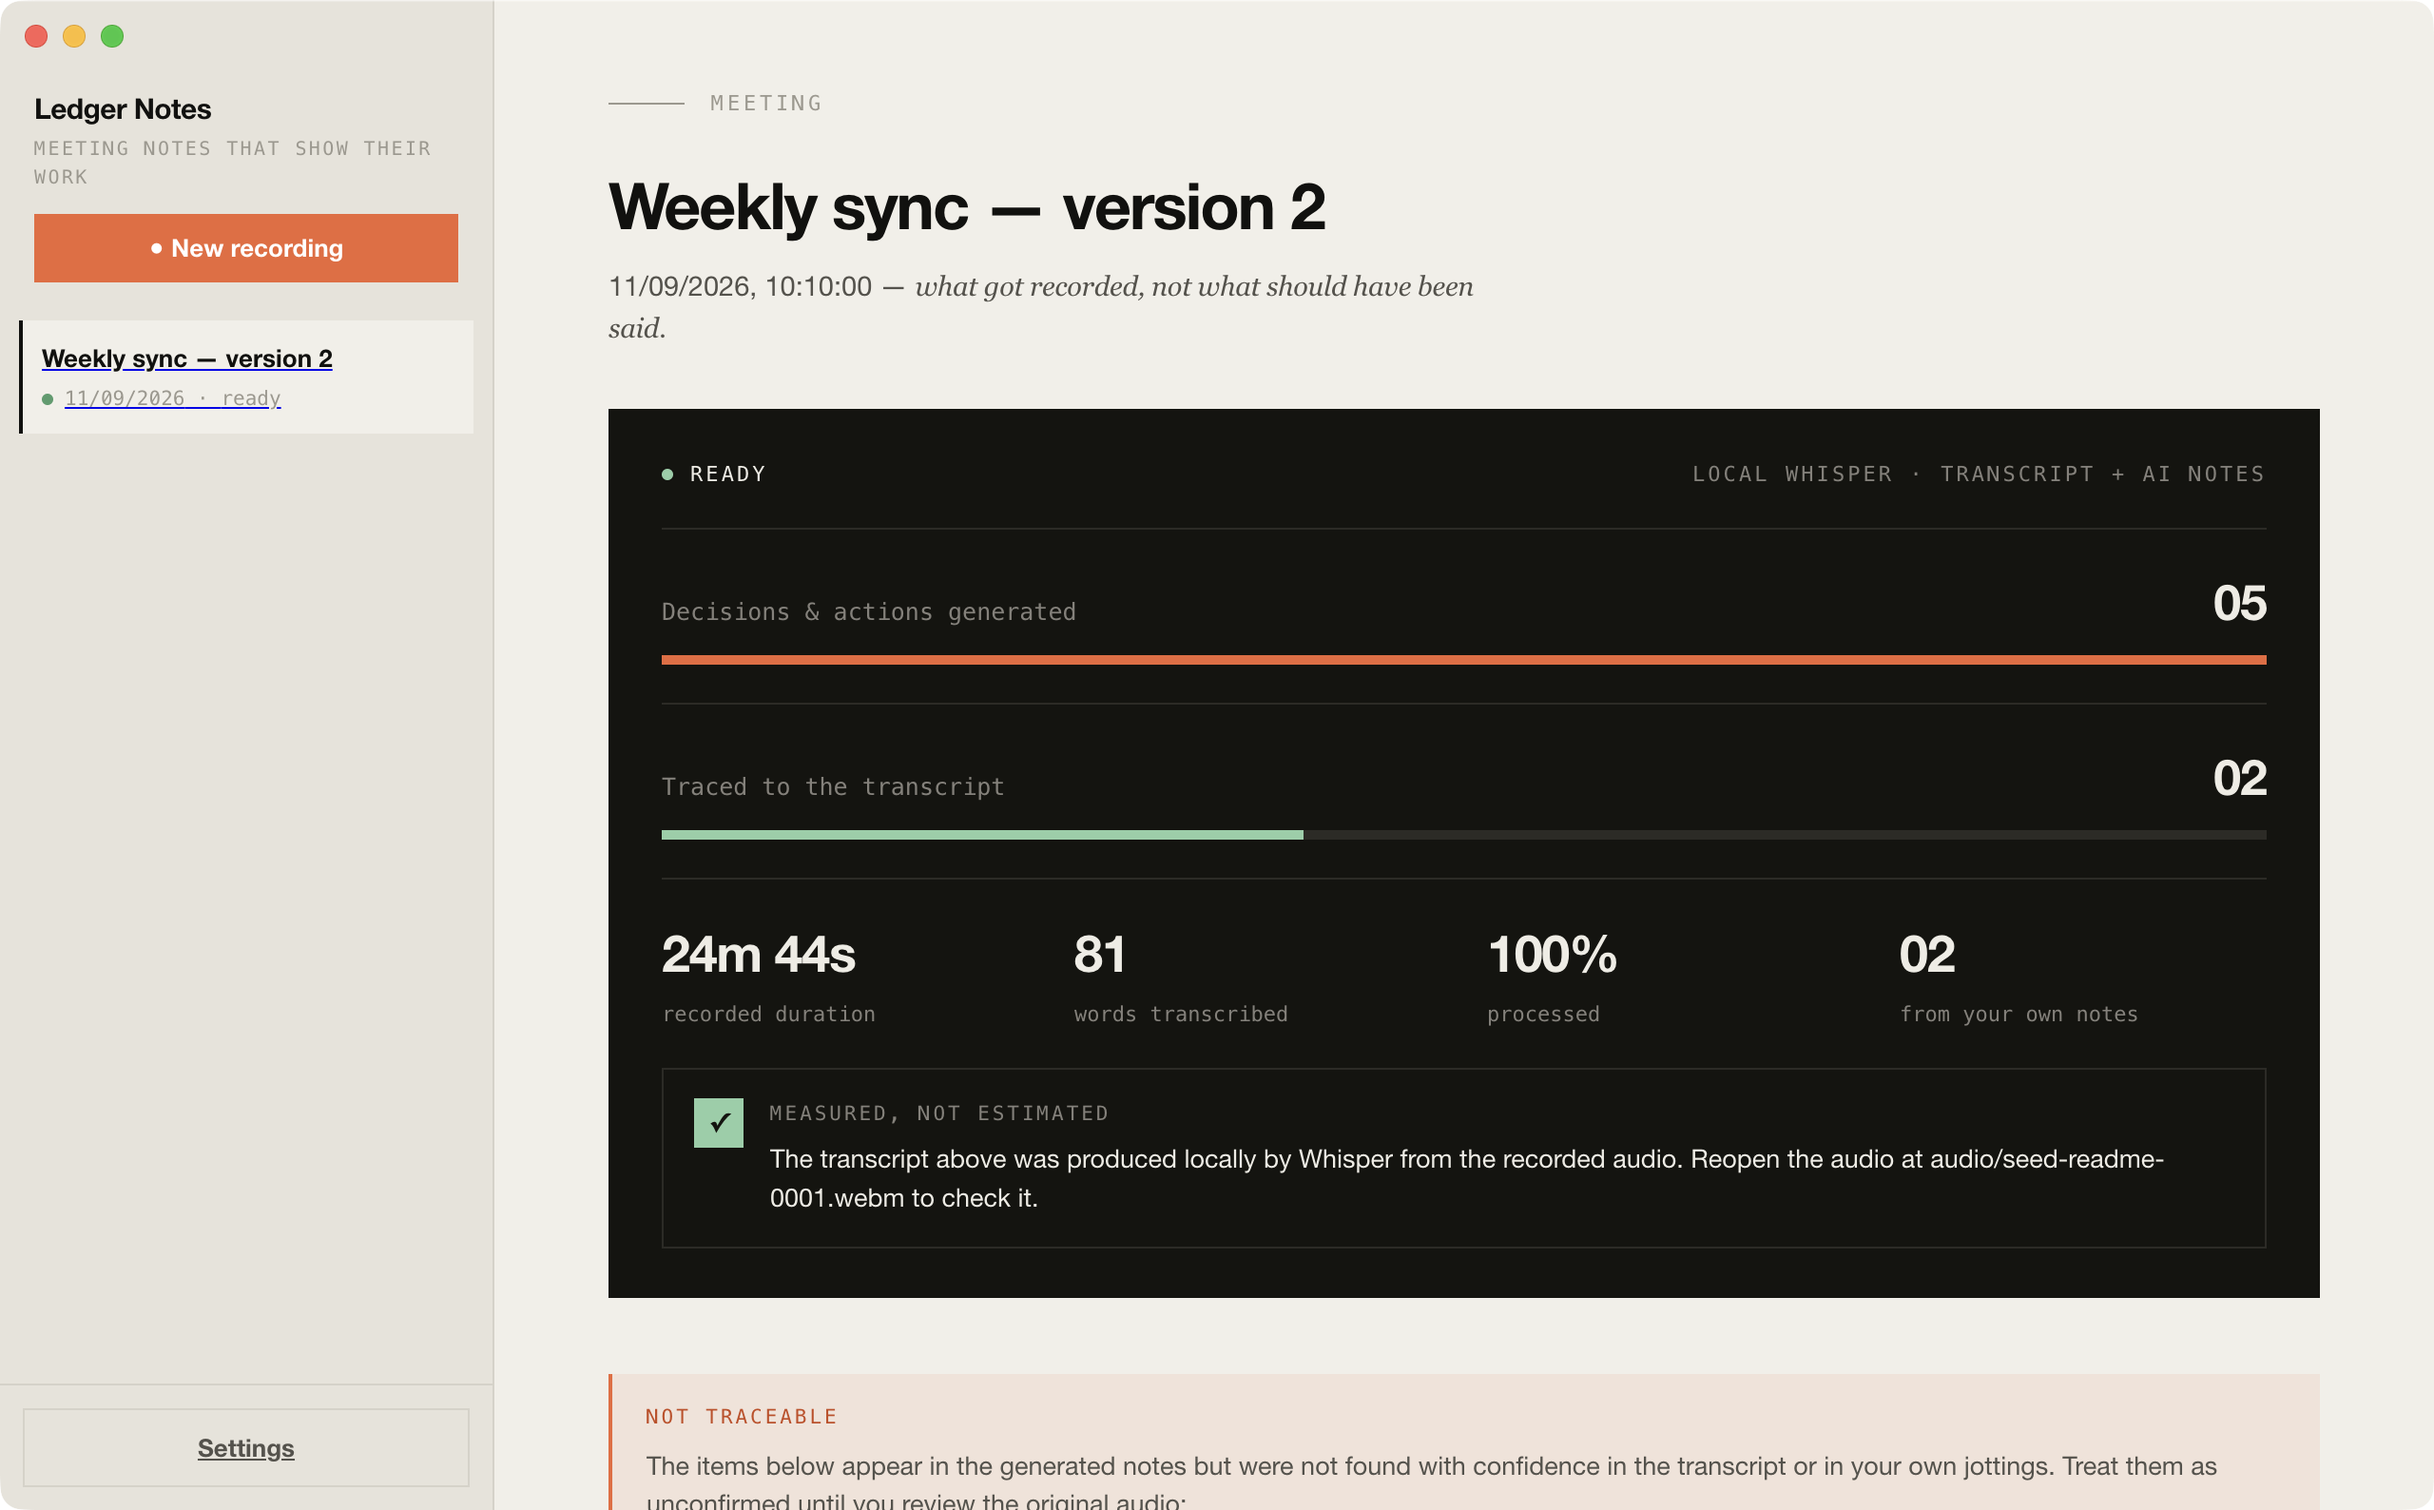
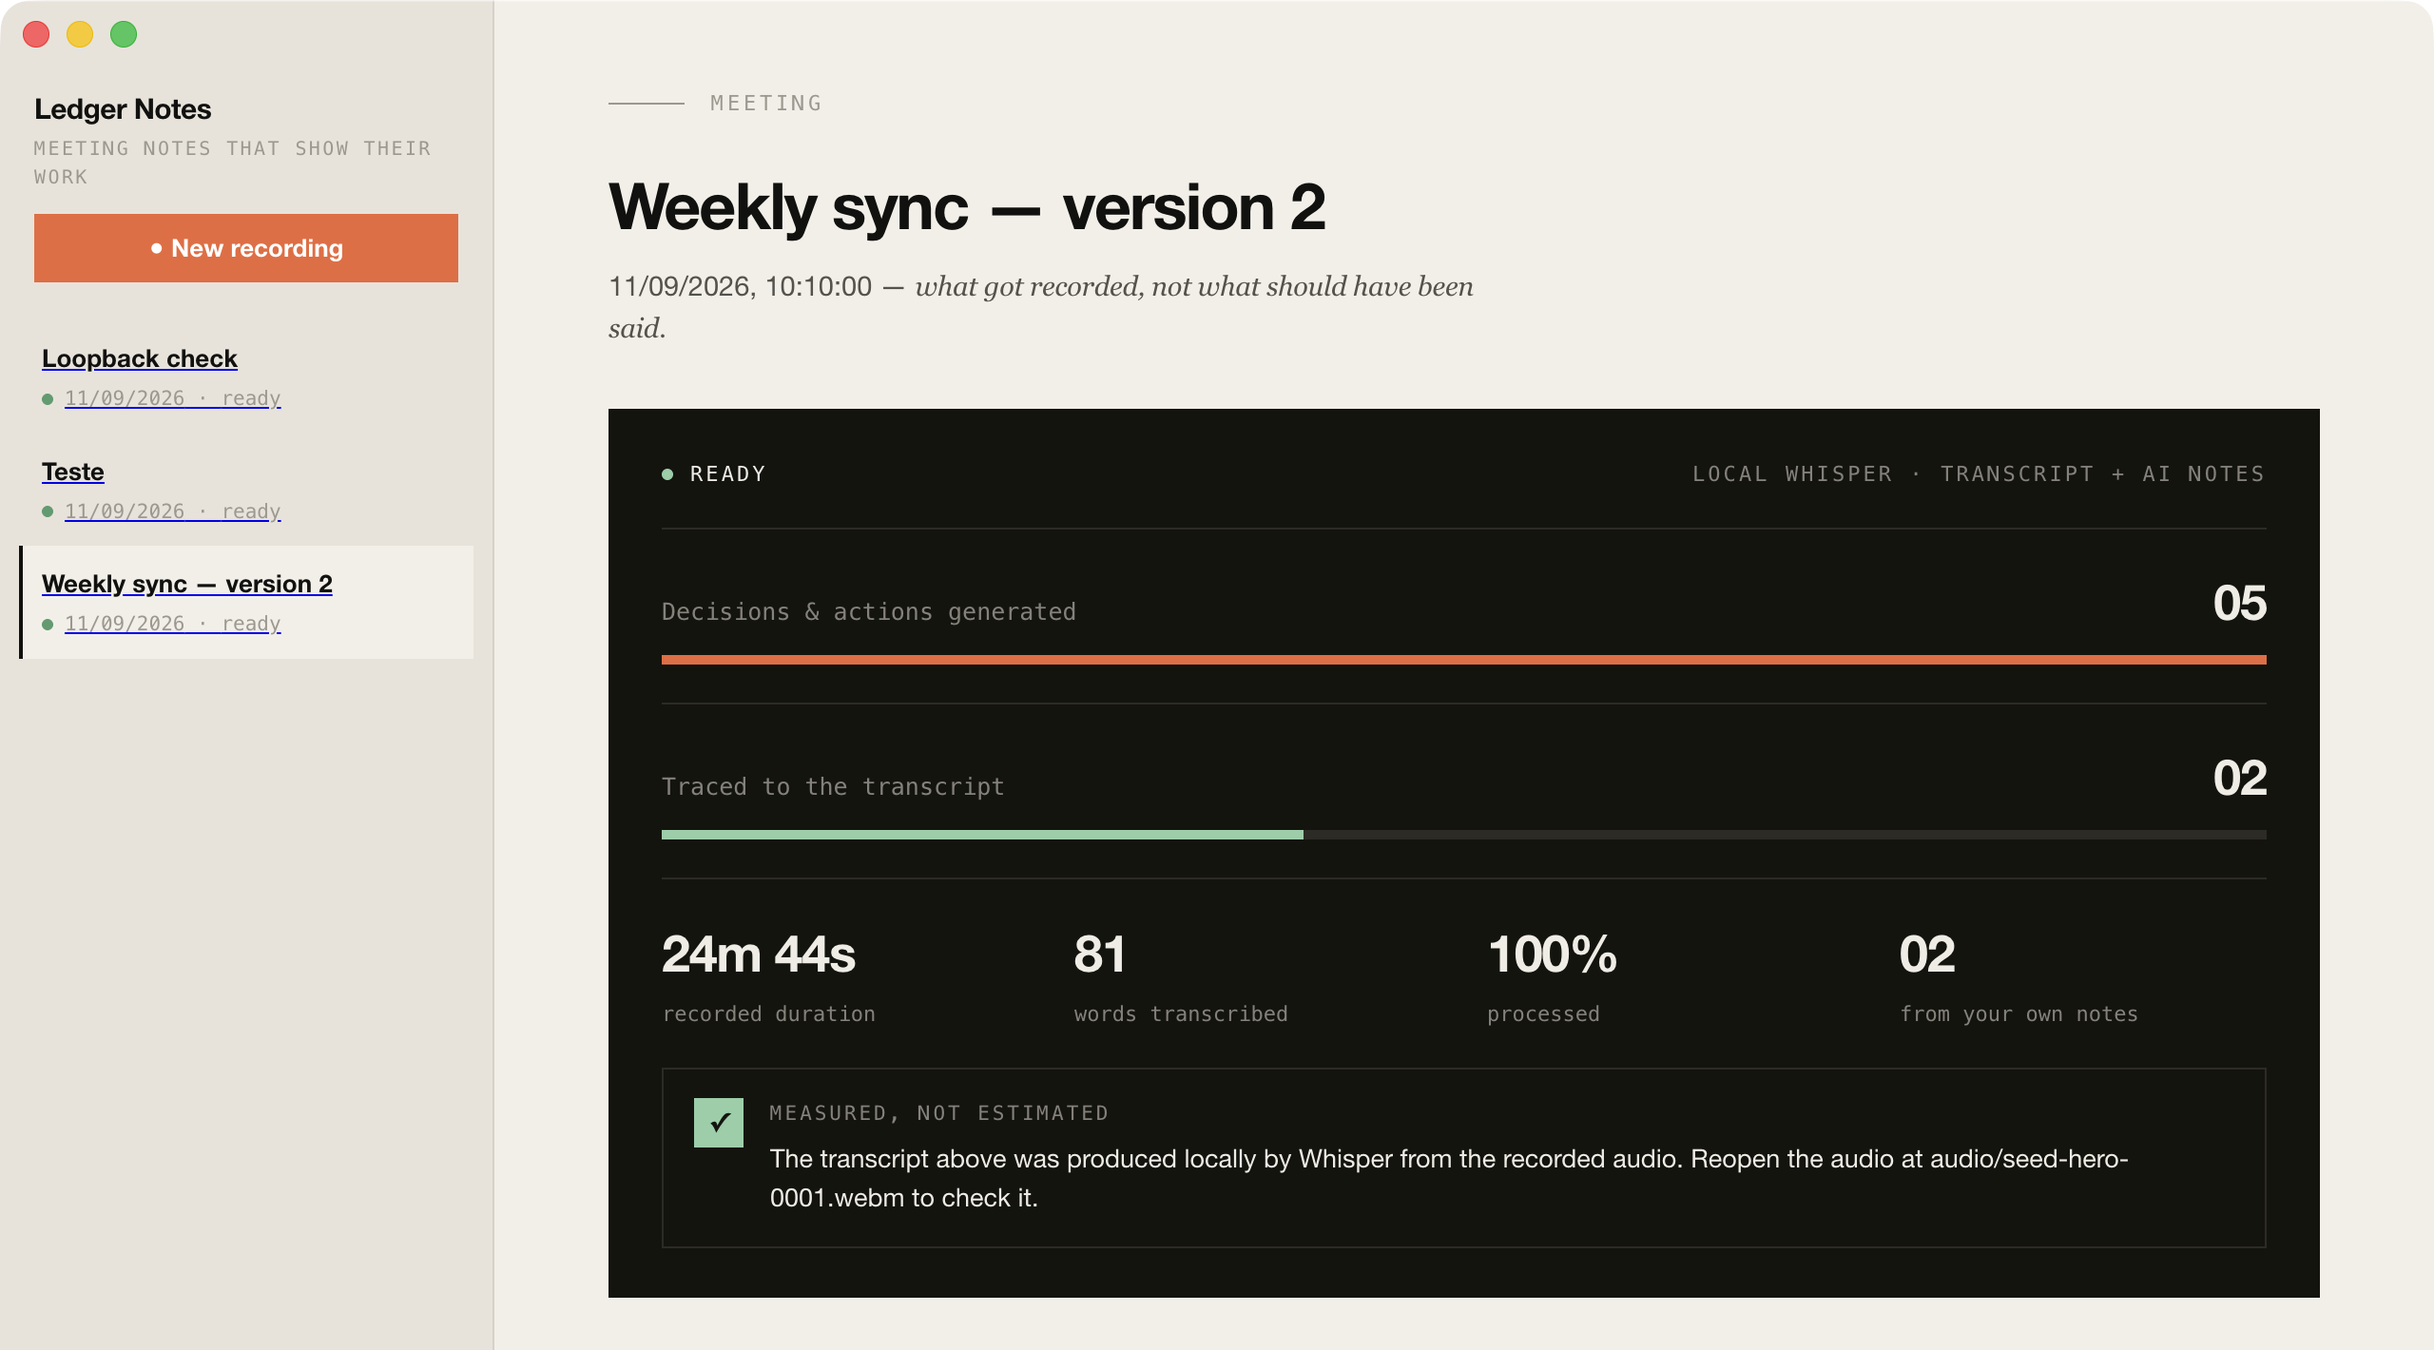
docs: reframe the hero and record the language-detection finding
The hero screenshot was cut mid-sentence through the flag. Reframed to close
cleanly below the ledger — the window cannot grow past the display height, so
the flag is out of frame rather than half in it.

Replaces the Electron limitation, now verified, with one found while verifying
it: Whisper's automatic language detection mis-fires on mixed-language audio.
A recording that opened in Portuguese and then played English speech came back
transcribed phonetically into Portuguese. The audio was captured correctly;
the language was not.

diff --git a/README.md b/README.md
@@ -96,7 +96,7 @@ python3 -m http.server 4173 --directory docs
 - The "untraceable items" check is a simple word-overlap heuristic, not a semantic check
 - The no-AI fallback (local heuristic) produces simpler notes than a language model would — key points are sentences sampled from the transcript, not a real synthesis
 - The packaged build (`dist:mac`) doesn't yet bundle a relocatable Python runtime, and isn't code-signed — see "Building for distribution" above
-- **System audio capture has not been re-tested since the Electron 44 upgrade.** The upgrade cleared the advisories that used to be open against Electron 33, and it also required migrating system audio off `getUserMedia({ chromeMediaSource: 'desktop' })`, an API newer Electron removed, onto `session.setDisplayMediaRequestHandler` with `audio: 'loopback'`. Lint, typecheck, build and app startup all pass, but a real recording — mic plus loopback — has not been run end to end. Do that before trusting a release
+- **Whisper's automatic language detection mis-fires on mixed-language audio.** Verified the hard way: a recording that opened with a few Portuguese words and then played English speech came back transcribed as phonetic Portuguese — "the quarterly budget review" became "de quarta ele budget, rívio". The audio was captured correctly; the language was not. If your meetings are reliably in one language, set it explicitly in Settings rather than leaving it on "Detect automatically"
 
 ## A note on SQLite
 
